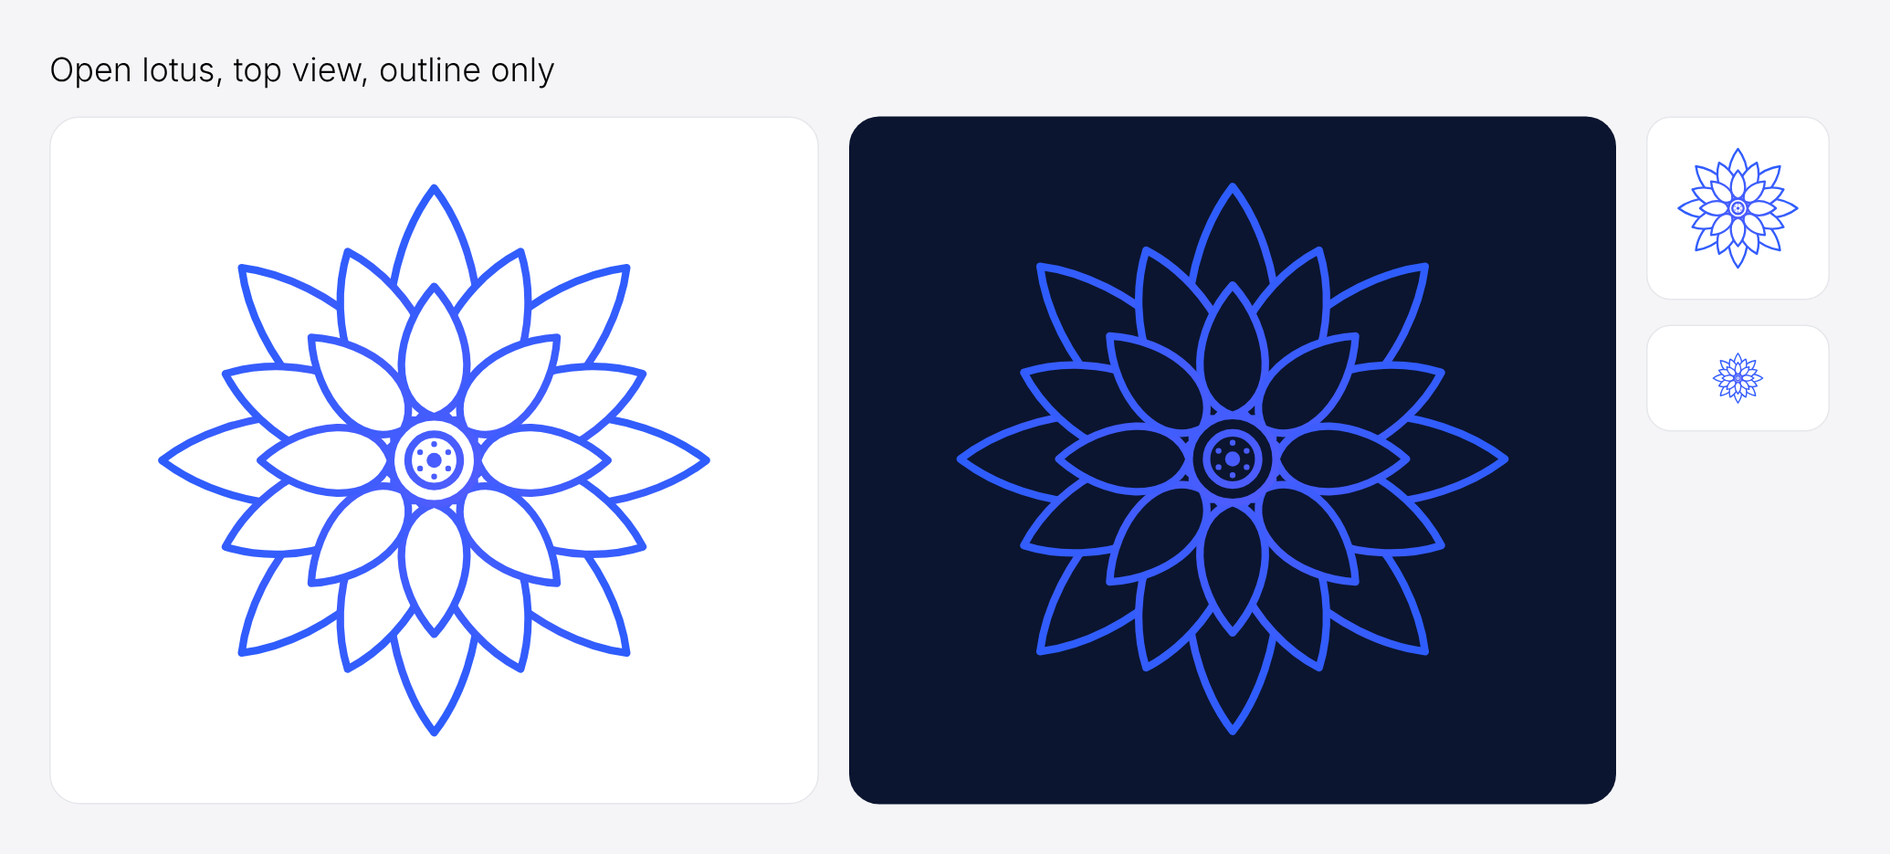
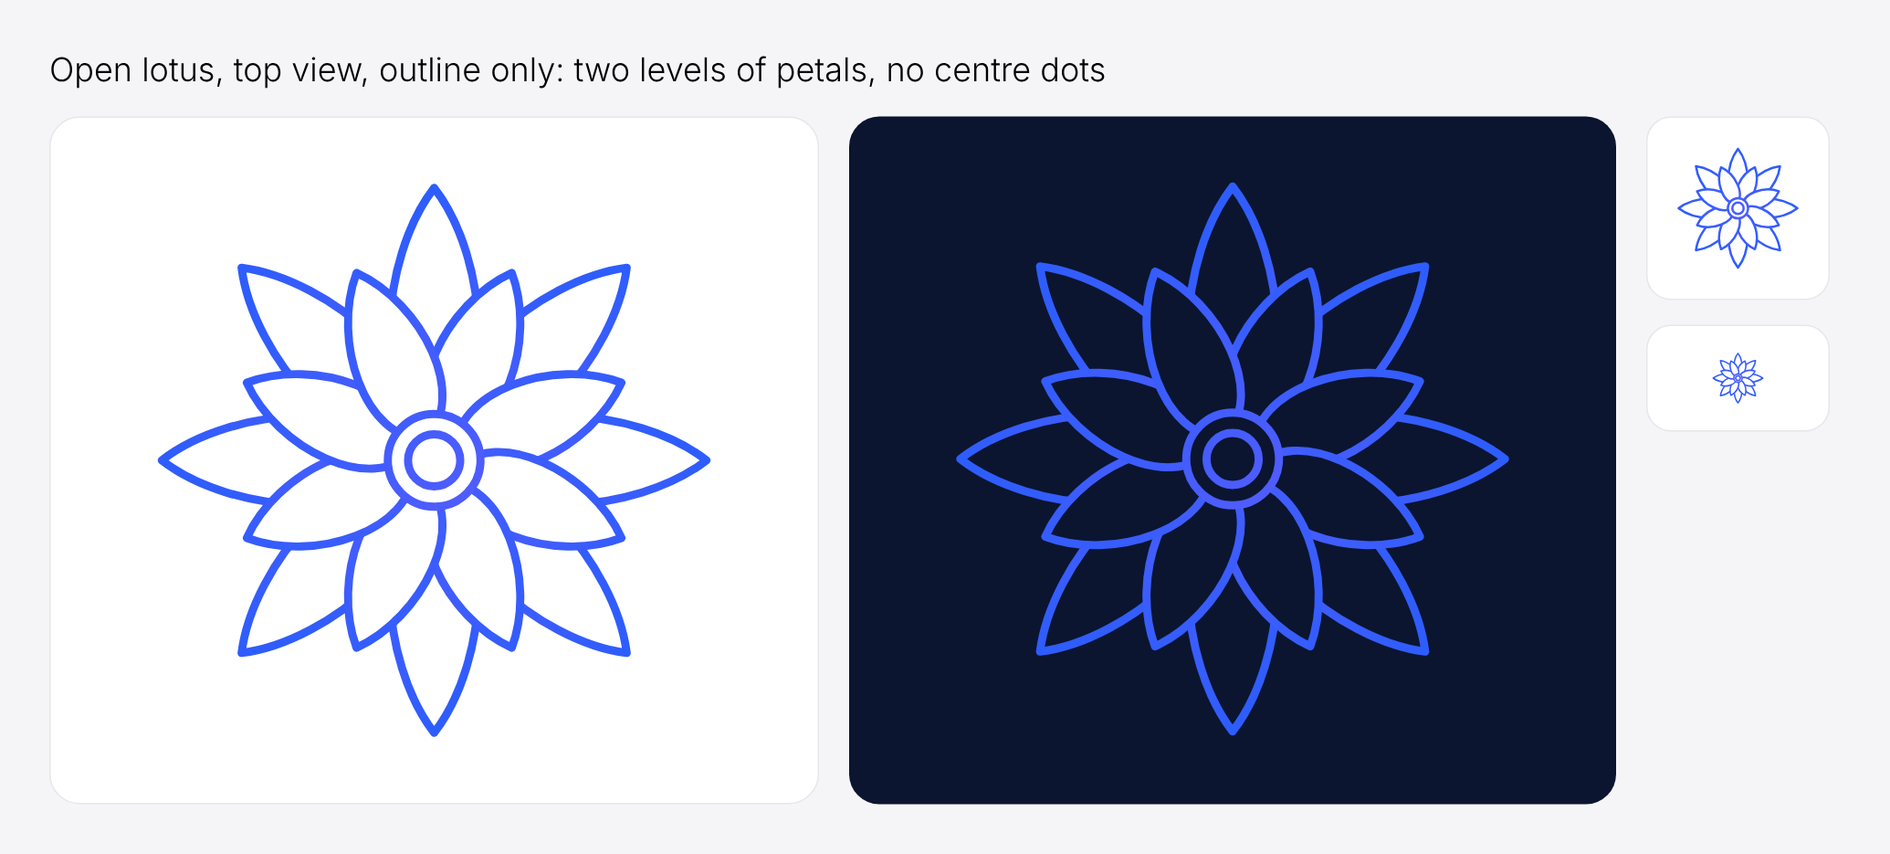
docs: open lotus with two petal levels and no centre dots
Claude-Session: https://claude.ai/code/session_01Pwk81XdHTKLfujovGEjyJb

diff --git a/docs/brand/lotus-preview.html b/docs/brand/lotus-preview.html
@@ -1,8 +1,8 @@
 <html><body style="margin:0;font-family:Inter,sans-serif;background:#f5f5f7;padding:36px;width:1300px">
-<h2 style="font-weight:300;margin:0 0 20px">Open lotus, top view, outline only</h2>
+<h2 style="font-weight:300;margin:0 0 20px">Open lotus, top view, outline only: two levels of petals, no centre dots</h2>
 <div style="display:flex;gap:22px">
-<div style="background:#fff;border-radius:22px;padding:30px;width:520px;text-align:center;border:1px solid #e5e7eb"><svg width="440" height="440" xmlns="http://www.w3.org/2000/svg" viewBox="-104 -104 208 208" fill="none"><defs><linearGradient id="gl1" x1="-90" y1="-90" x2="90" y2="90" gradientUnits="userSpaceOnUse"><stop offset="0" stop-color="#155dfc"/><stop offset="1" stop-color="#7c5cff"/></linearGradient></defs><g stroke="url(#gl1)" stroke-width="2.6" stroke-linejoin="round" stroke-linecap="round" fill="#ffffff"><path d="M0 -15C21.85 -24.48 19.00 -69.56 0 -94C-19.00 -69.56 -21.85 -24.48 0 -15Z" transform="rotate(0.0)"/><path d="M0 -15C21.85 -24.48 19.00 -69.56 0 -94C-19.00 -69.56 -21.85 -24.48 0 -15Z" transform="rotate(45.0)"/><path d="M0 -15C21.85 -24.48 19.00 -69.56 0 -94C-19.00 -69.56 -21.85 -24.48 0 -15Z" transform="rotate(90.0)"/><path d="M0 -15C21.85 -24.48 19.00 -69.56 0 -94C-19.00 -69.56 -21.85 -24.48 0 -15Z" transform="rotate(135.0)"/><path d="M0 -15C21.85 -24.48 19.00 -69.56 0 -94C-19.00 -69.56 -21.85 -24.48 0 -15Z" transform="rotate(180.0)"/><path d="M0 -15C21.85 -24.48 19.00 -69.56 0 -94C-19.00 -69.56 -21.85 -24.48 0 -15Z" transform="rotate(225.0)"/><path d="M0 -15C21.85 -24.48 19.00 -69.56 0 -94C-19.00 -69.56 -21.85 -24.48 0 -15Z" transform="rotate(270.0)"/><path d="M0 -15C21.85 -24.48 19.00 -69.56 0 -94C-19.00 -69.56 -21.85 -24.48 0 -15Z" transform="rotate(315.0)"/><path d="M0 -15C19.55 -22.56 17.00 -57.72 0 -78C-17.00 -57.72 -19.55 -22.56 0 -15Z" transform="rotate(22.5)"/><path d="M0 -15C19.55 -22.56 17.00 -57.72 0 -78C-17.00 -57.72 -19.55 -22.56 0 -15Z" transform="rotate(67.5)"/><path d="M0 -15C19.55 -22.56 17.00 -57.72 0 -78C-17.00 -57.72 -19.55 -22.56 0 -15Z" transform="rotate(112.5)"/><path d="M0 -15C19.55 -22.56 17.00 -57.72 0 -78C-17.00 -57.72 -19.55 -22.56 0 -15Z" transform="rotate(157.5)"/><path d="M0 -15C19.55 -22.56 17.00 -57.72 0 -78C-17.00 -57.72 -19.55 -22.56 0 -15Z" transform="rotate(202.5)"/><path d="M0 -15C19.55 -22.56 17.00 -57.72 0 -78C-17.00 -57.72 -19.55 -22.56 0 -15Z" transform="rotate(247.5)"/><path d="M0 -15C19.55 -22.56 17.00 -57.72 0 -78C-17.00 -57.72 -19.55 -22.56 0 -15Z" transform="rotate(292.5)"/><path d="M0 -15C19.55 -22.56 17.00 -57.72 0 -78C-17.00 -57.72 -19.55 -22.56 0 -15Z" transform="rotate(337.5)"/><path d="M0 -15C16.10 -20.40 14.00 -44.40 0 -60C-14.00 -44.40 -16.10 -20.40 0 -15Z" transform="rotate(0.0)"/><path d="M0 -15C16.10 -20.40 14.00 -44.40 0 -60C-14.00 -44.40 -16.10 -20.40 0 -15Z" transform="rotate(45.0)"/><path d="M0 -15C16.10 -20.40 14.00 -44.40 0 -60C-14.00 -44.40 -16.10 -20.40 0 -15Z" transform="rotate(90.0)"/><path d="M0 -15C16.10 -20.40 14.00 -44.40 0 -60C-14.00 -44.40 -16.10 -20.40 0 -15Z" transform="rotate(135.0)"/><path d="M0 -15C16.10 -20.40 14.00 -44.40 0 -60C-14.00 -44.40 -16.10 -20.40 0 -15Z" transform="rotate(180.0)"/><path d="M0 -15C16.10 -20.40 14.00 -44.40 0 -60C-14.00 -44.40 -16.10 -20.40 0 -15Z" transform="rotate(225.0)"/><path d="M0 -15C16.10 -20.40 14.00 -44.40 0 -60C-14.00 -44.40 -16.10 -20.40 0 -15Z" transform="rotate(270.0)"/><path d="M0 -15C16.10 -20.40 14.00 -44.40 0 -60C-14.00 -44.40 -16.10 -20.40 0 -15Z" transform="rotate(315.0)"/><circle r="15"/><circle r="9"/><circle r="2.6" fill="url(#gl1)" stroke="none"/><circle cx="0.00" cy="-5.60" r="1" fill="url(#gl1)" stroke="none"/><circle cx="4.85" cy="-2.80" r="1" fill="url(#gl1)" stroke="none"/><circle cx="4.85" cy="2.80" r="1" fill="url(#gl1)" stroke="none"/><circle cx="0.00" cy="5.60" r="1" fill="url(#gl1)" stroke="none"/><circle cx="-4.85" cy="2.80" r="1" fill="url(#gl1)" stroke="none"/><circle cx="-4.85" cy="-2.80" r="1" fill="url(#gl1)" stroke="none"/></g></svg></div>
-<div style="background:#0b1530;border-radius:22px;padding:30px;width:520px;text-align:center"><svg width="440" height="440" xmlns="http://www.w3.org/2000/svg" viewBox="-104 -104 208 208" fill="none"><defs><linearGradient id="gd1" x1="-90" y1="-90" x2="90" y2="90" gradientUnits="userSpaceOnUse"><stop offset="0" stop-color="#155dfc"/><stop offset="1" stop-color="#7c5cff"/></linearGradient></defs><g stroke="url(#gd1)" stroke-width="2.6" stroke-linejoin="round" stroke-linecap="round" fill="#0b1530"><path d="M0 -15C21.85 -24.48 19.00 -69.56 0 -94C-19.00 -69.56 -21.85 -24.48 0 -15Z" transform="rotate(0.0)"/><path d="M0 -15C21.85 -24.48 19.00 -69.56 0 -94C-19.00 -69.56 -21.85 -24.48 0 -15Z" transform="rotate(45.0)"/><path d="M0 -15C21.85 -24.48 19.00 -69.56 0 -94C-19.00 -69.56 -21.85 -24.48 0 -15Z" transform="rotate(90.0)"/><path d="M0 -15C21.85 -24.48 19.00 -69.56 0 -94C-19.00 -69.56 -21.85 -24.48 0 -15Z" transform="rotate(135.0)"/><path d="M0 -15C21.85 -24.48 19.00 -69.56 0 -94C-19.00 -69.56 -21.85 -24.48 0 -15Z" transform="rotate(180.0)"/><path d="M0 -15C21.85 -24.48 19.00 -69.56 0 -94C-19.00 -69.56 -21.85 -24.48 0 -15Z" transform="rotate(225.0)"/><path d="M0 -15C21.85 -24.48 19.00 -69.56 0 -94C-19.00 -69.56 -21.85 -24.48 0 -15Z" transform="rotate(270.0)"/><path d="M0 -15C21.85 -24.48 19.00 -69.56 0 -94C-19.00 -69.56 -21.85 -24.48 0 -15Z" transform="rotate(315.0)"/><path d="M0 -15C19.55 -22.56 17.00 -57.72 0 -78C-17.00 -57.72 -19.55 -22.56 0 -15Z" transform="rotate(22.5)"/><path d="M0 -15C19.55 -22.56 17.00 -57.72 0 -78C-17.00 -57.72 -19.55 -22.56 0 -15Z" transform="rotate(67.5)"/><path d="M0 -15C19.55 -22.56 17.00 -57.72 0 -78C-17.00 -57.72 -19.55 -22.56 0 -15Z" transform="rotate(112.5)"/><path d="M0 -15C19.55 -22.56 17.00 -57.72 0 -78C-17.00 -57.72 -19.55 -22.56 0 -15Z" transform="rotate(157.5)"/><path d="M0 -15C19.55 -22.56 17.00 -57.72 0 -78C-17.00 -57.72 -19.55 -22.56 0 -15Z" transform="rotate(202.5)"/><path d="M0 -15C19.55 -22.56 17.00 -57.72 0 -78C-17.00 -57.72 -19.55 -22.56 0 -15Z" transform="rotate(247.5)"/><path d="M0 -15C19.55 -22.56 17.00 -57.72 0 -78C-17.00 -57.72 -19.55 -22.56 0 -15Z" transform="rotate(292.5)"/><path d="M0 -15C19.55 -22.56 17.00 -57.72 0 -78C-17.00 -57.72 -19.55 -22.56 0 -15Z" transform="rotate(337.5)"/><path d="M0 -15C16.10 -20.40 14.00 -44.40 0 -60C-14.00 -44.40 -16.10 -20.40 0 -15Z" transform="rotate(0.0)"/><path d="M0 -15C16.10 -20.40 14.00 -44.40 0 -60C-14.00 -44.40 -16.10 -20.40 0 -15Z" transform="rotate(45.0)"/><path d="M0 -15C16.10 -20.40 14.00 -44.40 0 -60C-14.00 -44.40 -16.10 -20.40 0 -15Z" transform="rotate(90.0)"/><path d="M0 -15C16.10 -20.40 14.00 -44.40 0 -60C-14.00 -44.40 -16.10 -20.40 0 -15Z" transform="rotate(135.0)"/><path d="M0 -15C16.10 -20.40 14.00 -44.40 0 -60C-14.00 -44.40 -16.10 -20.40 0 -15Z" transform="rotate(180.0)"/><path d="M0 -15C16.10 -20.40 14.00 -44.40 0 -60C-14.00 -44.40 -16.10 -20.40 0 -15Z" transform="rotate(225.0)"/><path d="M0 -15C16.10 -20.40 14.00 -44.40 0 -60C-14.00 -44.40 -16.10 -20.40 0 -15Z" transform="rotate(270.0)"/><path d="M0 -15C16.10 -20.40 14.00 -44.40 0 -60C-14.00 -44.40 -16.10 -20.40 0 -15Z" transform="rotate(315.0)"/><circle r="15"/><circle r="9"/><circle r="2.6" fill="url(#gd1)" stroke="none"/><circle cx="0.00" cy="-5.60" r="1" fill="url(#gd1)" stroke="none"/><circle cx="4.85" cy="-2.80" r="1" fill="url(#gd1)" stroke="none"/><circle cx="4.85" cy="2.80" r="1" fill="url(#gd1)" stroke="none"/><circle cx="0.00" cy="5.60" r="1" fill="url(#gd1)" stroke="none"/><circle cx="-4.85" cy="2.80" r="1" fill="url(#gd1)" stroke="none"/><circle cx="-4.85" cy="-2.80" r="1" fill="url(#gd1)" stroke="none"/></g></svg></div>
-<div style="display:grid;gap:18px;align-content:start"><div style="background:#fff;border-radius:18px;padding:18px;text-align:center;border:1px solid #e5e7eb"><svg width="96" height="96" xmlns="http://www.w3.org/2000/svg" viewBox="-104 -104 208 208" fill="none"><defs><linearGradient id="gs1" x1="-90" y1="-90" x2="90" y2="90" gradientUnits="userSpaceOnUse"><stop offset="0" stop-color="#155dfc"/><stop offset="1" stop-color="#7c5cff"/></linearGradient></defs><g stroke="url(#gs1)" stroke-width="3.4" stroke-linejoin="round" stroke-linecap="round" fill="#ffffff"><path d="M0 -15C21.85 -24.48 19.00 -69.56 0 -94C-19.00 -69.56 -21.85 -24.48 0 -15Z" transform="rotate(0.0)"/><path d="M0 -15C21.85 -24.48 19.00 -69.56 0 -94C-19.00 -69.56 -21.85 -24.48 0 -15Z" transform="rotate(45.0)"/><path d="M0 -15C21.85 -24.48 19.00 -69.56 0 -94C-19.00 -69.56 -21.85 -24.48 0 -15Z" transform="rotate(90.0)"/><path d="M0 -15C21.85 -24.48 19.00 -69.56 0 -94C-19.00 -69.56 -21.85 -24.48 0 -15Z" transform="rotate(135.0)"/><path d="M0 -15C21.85 -24.48 19.00 -69.56 0 -94C-19.00 -69.56 -21.85 -24.48 0 -15Z" transform="rotate(180.0)"/><path d="M0 -15C21.85 -24.48 19.00 -69.56 0 -94C-19.00 -69.56 -21.85 -24.48 0 -15Z" transform="rotate(225.0)"/><path d="M0 -15C21.85 -24.48 19.00 -69.56 0 -94C-19.00 -69.56 -21.85 -24.48 0 -15Z" transform="rotate(270.0)"/><path d="M0 -15C21.85 -24.48 19.00 -69.56 0 -94C-19.00 -69.56 -21.85 -24.48 0 -15Z" transform="rotate(315.0)"/><path d="M0 -15C19.55 -22.56 17.00 -57.72 0 -78C-17.00 -57.72 -19.55 -22.56 0 -15Z" transform="rotate(22.5)"/><path d="M0 -15C19.55 -22.56 17.00 -57.72 0 -78C-17.00 -57.72 -19.55 -22.56 0 -15Z" transform="rotate(67.5)"/><path d="M0 -15C19.55 -22.56 17.00 -57.72 0 -78C-17.00 -57.72 -19.55 -22.56 0 -15Z" transform="rotate(112.5)"/><path d="M0 -15C19.55 -22.56 17.00 -57.72 0 -78C-17.00 -57.72 -19.55 -22.56 0 -15Z" transform="rotate(157.5)"/><path d="M0 -15C19.55 -22.56 17.00 -57.72 0 -78C-17.00 -57.72 -19.55 -22.56 0 -15Z" transform="rotate(202.5)"/><path d="M0 -15C19.55 -22.56 17.00 -57.72 0 -78C-17.00 -57.72 -19.55 -22.56 0 -15Z" transform="rotate(247.5)"/><path d="M0 -15C19.55 -22.56 17.00 -57.72 0 -78C-17.00 -57.72 -19.55 -22.56 0 -15Z" transform="rotate(292.5)"/><path d="M0 -15C19.55 -22.56 17.00 -57.72 0 -78C-17.00 -57.72 -19.55 -22.56 0 -15Z" transform="rotate(337.5)"/><path d="M0 -15C16.10 -20.40 14.00 -44.40 0 -60C-14.00 -44.40 -16.10 -20.40 0 -15Z" transform="rotate(0.0)"/><path d="M0 -15C16.10 -20.40 14.00 -44.40 0 -60C-14.00 -44.40 -16.10 -20.40 0 -15Z" transform="rotate(45.0)"/><path d="M0 -15C16.10 -20.40 14.00 -44.40 0 -60C-14.00 -44.40 -16.10 -20.40 0 -15Z" transform="rotate(90.0)"/><path d="M0 -15C16.10 -20.40 14.00 -44.40 0 -60C-14.00 -44.40 -16.10 -20.40 0 -15Z" transform="rotate(135.0)"/><path d="M0 -15C16.10 -20.40 14.00 -44.40 0 -60C-14.00 -44.40 -16.10 -20.40 0 -15Z" transform="rotate(180.0)"/><path d="M0 -15C16.10 -20.40 14.00 -44.40 0 -60C-14.00 -44.40 -16.10 -20.40 0 -15Z" transform="rotate(225.0)"/><path d="M0 -15C16.10 -20.40 14.00 -44.40 0 -60C-14.00 -44.40 -16.10 -20.40 0 -15Z" transform="rotate(270.0)"/><path d="M0 -15C16.10 -20.40 14.00 -44.40 0 -60C-14.00 -44.40 -16.10 -20.40 0 -15Z" transform="rotate(315.0)"/><circle r="15"/><circle r="9"/><circle r="2.6" fill="url(#gs1)" stroke="none"/><circle cx="0.00" cy="-5.60" r="1" fill="url(#gs1)" stroke="none"/><circle cx="4.85" cy="-2.80" r="1" fill="url(#gs1)" stroke="none"/><circle cx="4.85" cy="2.80" r="1" fill="url(#gs1)" stroke="none"/><circle cx="0.00" cy="5.60" r="1" fill="url(#gs1)" stroke="none"/><circle cx="-4.85" cy="2.80" r="1" fill="url(#gs1)" stroke="none"/><circle cx="-4.85" cy="-2.80" r="1" fill="url(#gs1)" stroke="none"/></g></svg></div>
-<div style="background:#fff;border-radius:18px;padding:18px;text-align:center;border:1px solid #e5e7eb"><svg width="40" height="40" xmlns="http://www.w3.org/2000/svg" viewBox="-104 -104 208 208" fill="none"><defs><linearGradient id="gs2" x1="-90" y1="-90" x2="90" y2="90" gradientUnits="userSpaceOnUse"><stop offset="0" stop-color="#155dfc"/><stop offset="1" stop-color="#7c5cff"/></linearGradient></defs><g stroke="url(#gs2)" stroke-width="5" stroke-linejoin="round" stroke-linecap="round" fill="#ffffff"><path d="M0 -15C21.85 -24.48 19.00 -69.56 0 -94C-19.00 -69.56 -21.85 -24.48 0 -15Z" transform="rotate(0.0)"/><path d="M0 -15C21.85 -24.48 19.00 -69.56 0 -94C-19.00 -69.56 -21.85 -24.48 0 -15Z" transform="rotate(45.0)"/><path d="M0 -15C21.85 -24.48 19.00 -69.56 0 -94C-19.00 -69.56 -21.85 -24.48 0 -15Z" transform="rotate(90.0)"/><path d="M0 -15C21.85 -24.48 19.00 -69.56 0 -94C-19.00 -69.56 -21.85 -24.48 0 -15Z" transform="rotate(135.0)"/><path d="M0 -15C21.85 -24.48 19.00 -69.56 0 -94C-19.00 -69.56 -21.85 -24.48 0 -15Z" transform="rotate(180.0)"/><path d="M0 -15C21.85 -24.48 19.00 -69.56 0 -94C-19.00 -69.56 -21.85 -24.48 0 -15Z" transform="rotate(225.0)"/><path d="M0 -15C21.85 -24.48 19.00 -69.56 0 -94C-19.00 -69.56 -21.85 -24.48 0 -15Z" transform="rotate(270.0)"/><path d="M0 -15C21.85 -24.48 19.00 -69.56 0 -94C-19.00 -69.56 -21.85 -24.48 0 -15Z" transform="rotate(315.0)"/><path d="M0 -15C19.55 -22.56 17.00 -57.72 0 -78C-17.00 -57.72 -19.55 -22.56 0 -15Z" transform="rotate(22.5)"/><path d="M0 -15C19.55 -22.56 17.00 -57.72 0 -78C-17.00 -57.72 -19.55 -22.56 0 -15Z" transform="rotate(67.5)"/><path d="M0 -15C19.55 -22.56 17.00 -57.72 0 -78C-17.00 -57.72 -19.55 -22.56 0 -15Z" transform="rotate(112.5)"/><path d="M0 -15C19.55 -22.56 17.00 -57.72 0 -78C-17.00 -57.72 -19.55 -22.56 0 -15Z" transform="rotate(157.5)"/><path d="M0 -15C19.55 -22.56 17.00 -57.72 0 -78C-17.00 -57.72 -19.55 -22.56 0 -15Z" transform="rotate(202.5)"/><path d="M0 -15C19.55 -22.56 17.00 -57.72 0 -78C-17.00 -57.72 -19.55 -22.56 0 -15Z" transform="rotate(247.5)"/><path d="M0 -15C19.55 -22.56 17.00 -57.72 0 -78C-17.00 -57.72 -19.55 -22.56 0 -15Z" transform="rotate(292.5)"/><path d="M0 -15C19.55 -22.56 17.00 -57.72 0 -78C-17.00 -57.72 -19.55 -22.56 0 -15Z" transform="rotate(337.5)"/><path d="M0 -15C16.10 -20.40 14.00 -44.40 0 -60C-14.00 -44.40 -16.10 -20.40 0 -15Z" transform="rotate(0.0)"/><path d="M0 -15C16.10 -20.40 14.00 -44.40 0 -60C-14.00 -44.40 -16.10 -20.40 0 -15Z" transform="rotate(45.0)"/><path d="M0 -15C16.10 -20.40 14.00 -44.40 0 -60C-14.00 -44.40 -16.10 -20.40 0 -15Z" transform="rotate(90.0)"/><path d="M0 -15C16.10 -20.40 14.00 -44.40 0 -60C-14.00 -44.40 -16.10 -20.40 0 -15Z" transform="rotate(135.0)"/><path d="M0 -15C16.10 -20.40 14.00 -44.40 0 -60C-14.00 -44.40 -16.10 -20.40 0 -15Z" transform="rotate(180.0)"/><path d="M0 -15C16.10 -20.40 14.00 -44.40 0 -60C-14.00 -44.40 -16.10 -20.40 0 -15Z" transform="rotate(225.0)"/><path d="M0 -15C16.10 -20.40 14.00 -44.40 0 -60C-14.00 -44.40 -16.10 -20.40 0 -15Z" transform="rotate(270.0)"/><path d="M0 -15C16.10 -20.40 14.00 -44.40 0 -60C-14.00 -44.40 -16.10 -20.40 0 -15Z" transform="rotate(315.0)"/><circle r="15"/><circle r="9"/><circle r="2.6" fill="url(#gs2)" stroke="none"/><circle cx="0.00" cy="-5.60" r="1" fill="url(#gs2)" stroke="none"/><circle cx="4.85" cy="-2.80" r="1" fill="url(#gs2)" stroke="none"/><circle cx="4.85" cy="2.80" r="1" fill="url(#gs2)" stroke="none"/><circle cx="0.00" cy="5.60" r="1" fill="url(#gs2)" stroke="none"/><circle cx="-4.85" cy="2.80" r="1" fill="url(#gs2)" stroke="none"/><circle cx="-4.85" cy="-2.80" r="1" fill="url(#gs2)" stroke="none"/></g></svg></div></div>
+<div style="background:#fff;border-radius:22px;padding:30px;width:520px;text-align:center;border:1px solid #e5e7eb"><svg width="440" height="440" xmlns="http://www.w3.org/2000/svg" viewBox="-104 -104 208 208" fill="none"><defs><linearGradient id="gl1" x1="-90" y1="-90" x2="90" y2="90" gradientUnits="userSpaceOnUse"><stop offset="0" stop-color="#155dfc"/><stop offset="1" stop-color="#7c5cff"/></linearGradient></defs><g stroke="url(#gl1)" stroke-width="2.8" stroke-linejoin="round" stroke-linecap="round" fill="#ffffff"><path d="M0 -8C21.85 -18.32 19.00 -69.56 0 -94C-19.00 -69.56 -21.85 -18.32 0 -8Z" transform="rotate(0.0)"/><path d="M0 -8C21.85 -18.32 19.00 -69.56 0 -94C-19.00 -69.56 -21.85 -18.32 0 -8Z" transform="rotate(45.0)"/><path d="M0 -8C21.85 -18.32 19.00 -69.56 0 -94C-19.00 -69.56 -21.85 -18.32 0 -8Z" transform="rotate(90.0)"/><path d="M0 -8C21.85 -18.32 19.00 -69.56 0 -94C-19.00 -69.56 -21.85 -18.32 0 -8Z" transform="rotate(135.0)"/><path d="M0 -8C21.85 -18.32 19.00 -69.56 0 -94C-19.00 -69.56 -21.85 -18.32 0 -8Z" transform="rotate(180.0)"/><path d="M0 -8C21.85 -18.32 19.00 -69.56 0 -94C-19.00 -69.56 -21.85 -18.32 0 -8Z" transform="rotate(225.0)"/><path d="M0 -8C21.85 -18.32 19.00 -69.56 0 -94C-19.00 -69.56 -21.85 -18.32 0 -8Z" transform="rotate(270.0)"/><path d="M0 -8C21.85 -18.32 19.00 -69.56 0 -94C-19.00 -69.56 -21.85 -18.32 0 -8Z" transform="rotate(315.0)"/><path d="M0 -8C19.55 -15.44 17.00 -51.80 0 -70C-17.00 -51.80 -19.55 -15.44 0 -8Z" transform="rotate(22.5)"/><path d="M0 -8C19.55 -15.44 17.00 -51.80 0 -70C-17.00 -51.80 -19.55 -15.44 0 -8Z" transform="rotate(67.5)"/><path d="M0 -8C19.55 -15.44 17.00 -51.80 0 -70C-17.00 -51.80 -19.55 -15.44 0 -8Z" transform="rotate(112.5)"/><path d="M0 -8C19.55 -15.44 17.00 -51.80 0 -70C-17.00 -51.80 -19.55 -15.44 0 -8Z" transform="rotate(157.5)"/><path d="M0 -8C19.55 -15.44 17.00 -51.80 0 -70C-17.00 -51.80 -19.55 -15.44 0 -8Z" transform="rotate(202.5)"/><path d="M0 -8C19.55 -15.44 17.00 -51.80 0 -70C-17.00 -51.80 -19.55 -15.44 0 -8Z" transform="rotate(247.5)"/><path d="M0 -8C19.55 -15.44 17.00 -51.80 0 -70C-17.00 -51.80 -19.55 -15.44 0 -8Z" transform="rotate(292.5)"/><path d="M0 -8C19.55 -15.44 17.00 -51.80 0 -70C-17.00 -51.80 -19.55 -15.44 0 -8Z" transform="rotate(337.5)"/><circle r="16"/><circle r="9"/></g></svg></div>
+<div style="background:#0b1530;border-radius:22px;padding:30px;width:520px;text-align:center"><svg width="440" height="440" xmlns="http://www.w3.org/2000/svg" viewBox="-104 -104 208 208" fill="none"><defs><linearGradient id="gd1" x1="-90" y1="-90" x2="90" y2="90" gradientUnits="userSpaceOnUse"><stop offset="0" stop-color="#155dfc"/><stop offset="1" stop-color="#7c5cff"/></linearGradient></defs><g stroke="url(#gd1)" stroke-width="2.8" stroke-linejoin="round" stroke-linecap="round" fill="#0b1530"><path d="M0 -8C21.85 -18.32 19.00 -69.56 0 -94C-19.00 -69.56 -21.85 -18.32 0 -8Z" transform="rotate(0.0)"/><path d="M0 -8C21.85 -18.32 19.00 -69.56 0 -94C-19.00 -69.56 -21.85 -18.32 0 -8Z" transform="rotate(45.0)"/><path d="M0 -8C21.85 -18.32 19.00 -69.56 0 -94C-19.00 -69.56 -21.85 -18.32 0 -8Z" transform="rotate(90.0)"/><path d="M0 -8C21.85 -18.32 19.00 -69.56 0 -94C-19.00 -69.56 -21.85 -18.32 0 -8Z" transform="rotate(135.0)"/><path d="M0 -8C21.85 -18.32 19.00 -69.56 0 -94C-19.00 -69.56 -21.85 -18.32 0 -8Z" transform="rotate(180.0)"/><path d="M0 -8C21.85 -18.32 19.00 -69.56 0 -94C-19.00 -69.56 -21.85 -18.32 0 -8Z" transform="rotate(225.0)"/><path d="M0 -8C21.85 -18.32 19.00 -69.56 0 -94C-19.00 -69.56 -21.85 -18.32 0 -8Z" transform="rotate(270.0)"/><path d="M0 -8C21.85 -18.32 19.00 -69.56 0 -94C-19.00 -69.56 -21.85 -18.32 0 -8Z" transform="rotate(315.0)"/><path d="M0 -8C19.55 -15.44 17.00 -51.80 0 -70C-17.00 -51.80 -19.55 -15.44 0 -8Z" transform="rotate(22.5)"/><path d="M0 -8C19.55 -15.44 17.00 -51.80 0 -70C-17.00 -51.80 -19.55 -15.44 0 -8Z" transform="rotate(67.5)"/><path d="M0 -8C19.55 -15.44 17.00 -51.80 0 -70C-17.00 -51.80 -19.55 -15.44 0 -8Z" transform="rotate(112.5)"/><path d="M0 -8C19.55 -15.44 17.00 -51.80 0 -70C-17.00 -51.80 -19.55 -15.44 0 -8Z" transform="rotate(157.5)"/><path d="M0 -8C19.55 -15.44 17.00 -51.80 0 -70C-17.00 -51.80 -19.55 -15.44 0 -8Z" transform="rotate(202.5)"/><path d="M0 -8C19.55 -15.44 17.00 -51.80 0 -70C-17.00 -51.80 -19.55 -15.44 0 -8Z" transform="rotate(247.5)"/><path d="M0 -8C19.55 -15.44 17.00 -51.80 0 -70C-17.00 -51.80 -19.55 -15.44 0 -8Z" transform="rotate(292.5)"/><path d="M0 -8C19.55 -15.44 17.00 -51.80 0 -70C-17.00 -51.80 -19.55 -15.44 0 -8Z" transform="rotate(337.5)"/><circle r="16"/><circle r="9"/></g></svg></div>
+<div style="display:grid;gap:18px;align-content:start"><div style="background:#fff;border-radius:18px;padding:18px;text-align:center;border:1px solid #e5e7eb"><svg width="96" height="96" xmlns="http://www.w3.org/2000/svg" viewBox="-104 -104 208 208" fill="none"><defs><linearGradient id="gs1" x1="-90" y1="-90" x2="90" y2="90" gradientUnits="userSpaceOnUse"><stop offset="0" stop-color="#155dfc"/><stop offset="1" stop-color="#7c5cff"/></linearGradient></defs><g stroke="url(#gs1)" stroke-width="3.6" stroke-linejoin="round" stroke-linecap="round" fill="#ffffff"><path d="M0 -8C21.85 -18.32 19.00 -69.56 0 -94C-19.00 -69.56 -21.85 -18.32 0 -8Z" transform="rotate(0.0)"/><path d="M0 -8C21.85 -18.32 19.00 -69.56 0 -94C-19.00 -69.56 -21.85 -18.32 0 -8Z" transform="rotate(45.0)"/><path d="M0 -8C21.85 -18.32 19.00 -69.56 0 -94C-19.00 -69.56 -21.85 -18.32 0 -8Z" transform="rotate(90.0)"/><path d="M0 -8C21.85 -18.32 19.00 -69.56 0 -94C-19.00 -69.56 -21.85 -18.32 0 -8Z" transform="rotate(135.0)"/><path d="M0 -8C21.85 -18.32 19.00 -69.56 0 -94C-19.00 -69.56 -21.85 -18.32 0 -8Z" transform="rotate(180.0)"/><path d="M0 -8C21.85 -18.32 19.00 -69.56 0 -94C-19.00 -69.56 -21.85 -18.32 0 -8Z" transform="rotate(225.0)"/><path d="M0 -8C21.85 -18.32 19.00 -69.56 0 -94C-19.00 -69.56 -21.85 -18.32 0 -8Z" transform="rotate(270.0)"/><path d="M0 -8C21.85 -18.32 19.00 -69.56 0 -94C-19.00 -69.56 -21.85 -18.32 0 -8Z" transform="rotate(315.0)"/><path d="M0 -8C19.55 -15.44 17.00 -51.80 0 -70C-17.00 -51.80 -19.55 -15.44 0 -8Z" transform="rotate(22.5)"/><path d="M0 -8C19.55 -15.44 17.00 -51.80 0 -70C-17.00 -51.80 -19.55 -15.44 0 -8Z" transform="rotate(67.5)"/><path d="M0 -8C19.55 -15.44 17.00 -51.80 0 -70C-17.00 -51.80 -19.55 -15.44 0 -8Z" transform="rotate(112.5)"/><path d="M0 -8C19.55 -15.44 17.00 -51.80 0 -70C-17.00 -51.80 -19.55 -15.44 0 -8Z" transform="rotate(157.5)"/><path d="M0 -8C19.55 -15.44 17.00 -51.80 0 -70C-17.00 -51.80 -19.55 -15.44 0 -8Z" transform="rotate(202.5)"/><path d="M0 -8C19.55 -15.44 17.00 -51.80 0 -70C-17.00 -51.80 -19.55 -15.44 0 -8Z" transform="rotate(247.5)"/><path d="M0 -8C19.55 -15.44 17.00 -51.80 0 -70C-17.00 -51.80 -19.55 -15.44 0 -8Z" transform="rotate(292.5)"/><path d="M0 -8C19.55 -15.44 17.00 -51.80 0 -70C-17.00 -51.80 -19.55 -15.44 0 -8Z" transform="rotate(337.5)"/><circle r="16"/><circle r="9"/></g></svg></div>
+<div style="background:#fff;border-radius:18px;padding:18px;text-align:center;border:1px solid #e5e7eb"><svg width="40" height="40" xmlns="http://www.w3.org/2000/svg" viewBox="-104 -104 208 208" fill="none"><defs><linearGradient id="gs2" x1="-90" y1="-90" x2="90" y2="90" gradientUnits="userSpaceOnUse"><stop offset="0" stop-color="#155dfc"/><stop offset="1" stop-color="#7c5cff"/></linearGradient></defs><g stroke="url(#gs2)" stroke-width="5.5" stroke-linejoin="round" stroke-linecap="round" fill="#ffffff"><path d="M0 -8C21.85 -18.32 19.00 -69.56 0 -94C-19.00 -69.56 -21.85 -18.32 0 -8Z" transform="rotate(0.0)"/><path d="M0 -8C21.85 -18.32 19.00 -69.56 0 -94C-19.00 -69.56 -21.85 -18.32 0 -8Z" transform="rotate(45.0)"/><path d="M0 -8C21.85 -18.32 19.00 -69.56 0 -94C-19.00 -69.56 -21.85 -18.32 0 -8Z" transform="rotate(90.0)"/><path d="M0 -8C21.85 -18.32 19.00 -69.56 0 -94C-19.00 -69.56 -21.85 -18.32 0 -8Z" transform="rotate(135.0)"/><path d="M0 -8C21.85 -18.32 19.00 -69.56 0 -94C-19.00 -69.56 -21.85 -18.32 0 -8Z" transform="rotate(180.0)"/><path d="M0 -8C21.85 -18.32 19.00 -69.56 0 -94C-19.00 -69.56 -21.85 -18.32 0 -8Z" transform="rotate(225.0)"/><path d="M0 -8C21.85 -18.32 19.00 -69.56 0 -94C-19.00 -69.56 -21.85 -18.32 0 -8Z" transform="rotate(270.0)"/><path d="M0 -8C21.85 -18.32 19.00 -69.56 0 -94C-19.00 -69.56 -21.85 -18.32 0 -8Z" transform="rotate(315.0)"/><path d="M0 -8C19.55 -15.44 17.00 -51.80 0 -70C-17.00 -51.80 -19.55 -15.44 0 -8Z" transform="rotate(22.5)"/><path d="M0 -8C19.55 -15.44 17.00 -51.80 0 -70C-17.00 -51.80 -19.55 -15.44 0 -8Z" transform="rotate(67.5)"/><path d="M0 -8C19.55 -15.44 17.00 -51.80 0 -70C-17.00 -51.80 -19.55 -15.44 0 -8Z" transform="rotate(112.5)"/><path d="M0 -8C19.55 -15.44 17.00 -51.80 0 -70C-17.00 -51.80 -19.55 -15.44 0 -8Z" transform="rotate(157.5)"/><path d="M0 -8C19.55 -15.44 17.00 -51.80 0 -70C-17.00 -51.80 -19.55 -15.44 0 -8Z" transform="rotate(202.5)"/><path d="M0 -8C19.55 -15.44 17.00 -51.80 0 -70C-17.00 -51.80 -19.55 -15.44 0 -8Z" transform="rotate(247.5)"/><path d="M0 -8C19.55 -15.44 17.00 -51.80 0 -70C-17.00 -51.80 -19.55 -15.44 0 -8Z" transform="rotate(292.5)"/><path d="M0 -8C19.55 -15.44 17.00 -51.80 0 -70C-17.00 -51.80 -19.55 -15.44 0 -8Z" transform="rotate(337.5)"/><circle r="16"/><circle r="9"/></g></svg></div></div>
 </div></body></html>
